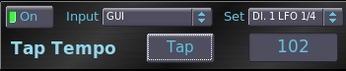
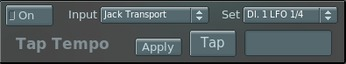
modified:   doc/help/help.html 	modified:   doc/help/imagenes/tap.jpg

diff --git a/doc/help/help.html b/doc/help/help.html
@@ -2822,7 +2822,10 @@ all the effect Tempo parameters that has the state in "On" to the value
 read or generated.</p>
 <p>The "Set" choice select how the Delay and LFO effect parameters will be
 updated, according to the preset and the Tempo.</p>
-
+<p> TapTempo update the effects that has the "On" state but we have added the
+apply button that also update the Tempo in the effects, useful for example when
+you add a new effect, or you change the internal effect preset or you change
+the "Set" parameter.
 
 
 <p><a href="help.html#top">Contents</a></p>
